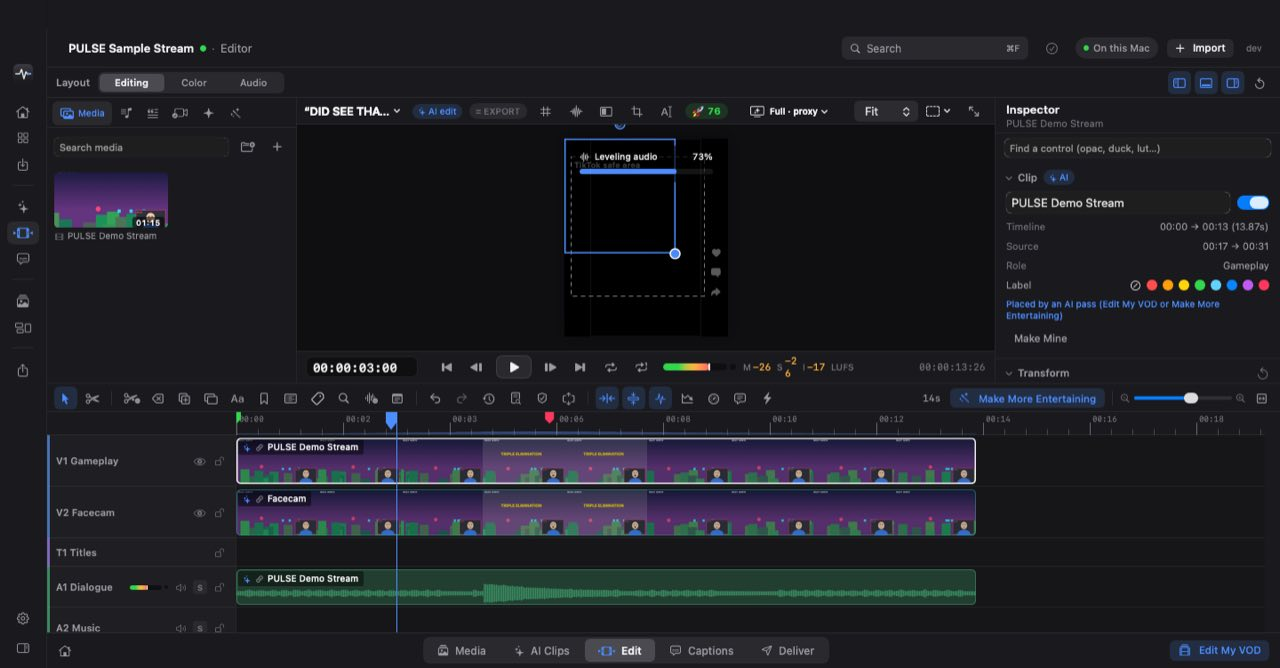
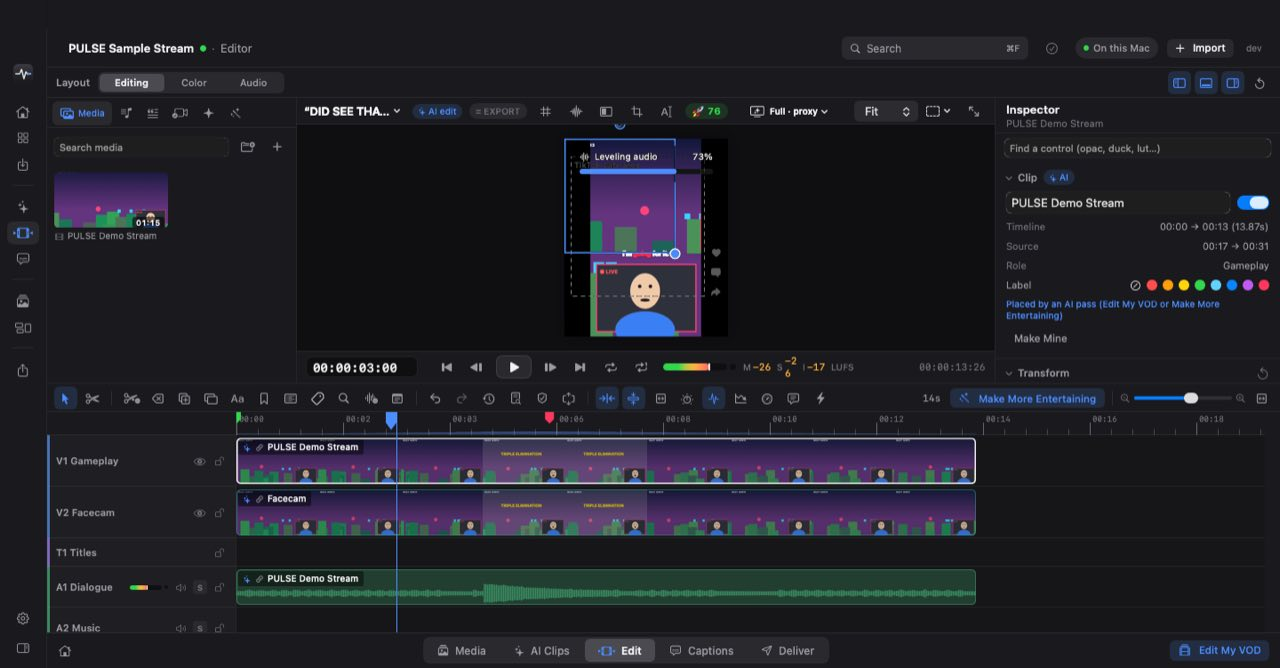
[release] PULSE 1.8.0: the first twenty of the 800 ideas
Version 1.8.0. The code is the commit CI passed on both runners
(574 tests on Apple silicon, the same suite on Intel, the full UI
walk-through, the viewer's reference frames unchanged); this commit
only bumps the version and brings the README, the notes, the version
table, the handoff and the screenshots up to date. The editor,
multicam and YouTube-edit screenshots now show the viewer's real
rendered frame.

Claude-Session: https://claude.ai/code/session_01ErBZKykhuaF9WweHhpYzPx

Changed region(s): [[0.4375, 0.2096, 0.5625, 0.509], [0.5, 0.5689, 0.625, 0.6287]]

diff --git a/CHANGELOG.md b/CHANGELOG.md
@@ -2,7 +2,7 @@
 
 Release notes live in [`versions/`](versions/README.md), one folder per version:
 
-- [1.8.0](versions/1.8.0/NOTES.md) (in progress, not released) — the first twenty of the 800 ideas, as they land: a built-in style as the default for each kind of recording (#626) and two styles compared side by side before one is built (#627); for shorts, an ending that loops back to the opening with a three-times preview (#541), five opening lines true to the clip (#542) and caption pages split at reading speed (#721); for long videos, the kept moments read and arranged as a story with what is missing named (#581) and a tease that points at a real later moment and is checked after every edit (#582); music in the recording flagged before export with one-click silencing (#521) and the face on camera read as a reaction signal (#501); a video's real retention graph imported onto its timeline (#936) and read for what the audience left during, per video and per channel (#937); a dialogue-first mix that lists what it changed (#761), one pass of an edit rebuilt on its own (#1101) and a cut trimmed a frame at a time while it loops (#661); three clips from the first ten minutes of a long recording while the rest is analyzed (#1061), a week of posts planned across platforms (#906) and a reviewer's timecoded comments back on the timeline as markers (#1181); a language model that reads the transcript and plans the edit for the existing editor to build (#1281), the viewer's real rendered frame judged in CI and shown in its screenshots (#1021), and a release pipeline that checks, notarizes and verifies a signed build once an Apple Developer account's secrets are added (#866)
+- [1.8.0](versions/1.8.0/NOTES.md) — the first twenty of the 800 ideas: a built-in style as the default for each kind of recording (#626) and two styles compared side by side before one is built (#627); for shorts, an ending that loops back to the opening with a three-times preview (#541), five opening lines true to the clip (#542) and caption pages split at reading speed (#721); for long videos, the kept moments read and arranged as a story with what is missing named (#581) and a tease that points at a real later moment and is checked after every edit (#582); music in the recording flagged before export with one-click silencing (#521) and the face on camera read as a reaction signal (#501); a video's real retention graph imported onto its timeline (#936) and read for what the audience left during, per video and per channel (#937); a dialogue-first mix that lists what it changed (#761), one pass of an edit rebuilt on its own (#1101) and a cut trimmed a frame at a time while it loops (#661); three clips from the first ten minutes of a long recording while the rest is analyzed (#1061), a week of posts planned across platforms (#906) and a reviewer's timecoded comments back on the timeline as markers (#1181); a language model that reads the transcript and plans the edit for the existing editor to build (#1281), the viewer's real rendered frame judged in CI and shown in its screenshots (#1021), and a release pipeline that checks, notarizes and verifies a signed build once an Apple Developer account's secrets are added (#866)
 - [1.7.0](versions/1.7.0/NOTES.md) — the BulkBoard look across the app (its surface, stroke and text tokens in dark and light, one blue accent with pink, violet, lime and amber as choices, 12-pt continuous cards, page headers on every page, a 216-pt sidebar with rounded selection and shortcut hints, system-style buttons, the app's own segmented control in place of 38 system pickers, a graphite app mark) and six built-in editing styles (Retention cut, Story first, Clean commentary, Punchy short, Smooth and cinematic, On the beat) that Edit Like a Reference, Edit My VOD and the overnight batch can cut in, each with its own zoom ramp (snapping in for the fast styles, easing in and out over 0.6 s for Smooth and cinematic), with a coach that flags held shots, missing sections, piled-up sound effects, unreadable caption pages and zooms that snap in a style that glides, and judges an edit by the style it was cut in; a fix for a freeze of all background work when Media opened with many audio files (waveforms are read off Swift's cooperative threads now); plus `docs/IDEAS-800.md`
 - [1.6.3](versions/1.6.3/NOTES.md) — hardening after the roadmap: multi-pass export driven per pass description, resumable YouTube uploads (status query after a dropped connection or a 5xx), one-shot dub synthesis with a timeout and zeroed silence, signal plugins with stderr drained, waveform video errors surfaced, split recordings joined per file, whisper.cpp and FFmpeg stopped on cancel, camera start/stop timeouts, archive restore as a job, VOD downloads over 60 MB streamed to disk with progress; a restrained professional design system across the app (flat controls, hairline borders, compact chrome, calmer timeline).
 - [1.6.2](versions/1.6.2/NOTES.md) — roadmap batches 23–24: chapter art, media list view, GPU self-test with automatic safe mode, shuttle speed readout; viewer quality with automatic step-down, viewer in a separate window, fade shapes, pitch preservation, grain, skin-tone protection, audio quality names, import presets, seamless music loops, memory ceiling; no black flash on rebuild, track rename/reorder/colour, keyframe sparklines, beat grid, sound packs, thumbnail after export, A/B thumbnail pairs; chroma key, feathered masks, scopes, match grade, brand logo per export, caption auto-fit; reverse clip, speaker chips, frosted captions, auto white balance, effect variations, one system indicator; ProRes 4444 with transparency, true peak, enhance A/B preview, audio scrub, track heights, project settings, detachable inspector and transcript; custom shortcuts, trim two-up, frame-rate conform, Open with PULSE, recently changed settings, font recents, focus rings; Speed Edit mode, transition handles, live recording level; storyboard reorder with waveforms, predicted retention, text templates with a live preview, sound drop markers, export-only sharpening; light theme, word-pop text, shape layers, brand kit per platform; keyframe lane, canvas rotation knob, looping storyboard previews, colour-matched angles, two-person reframing, help chips; crop tool on the canvas, mini viewer, caption editing on the viewer, playhead-first audio levelling, multicam switching sensitivity with cuts on the beat, edit like my last videos; mix and track meters with peak hold, voice/game balance, room tone between cuts, instrumental stems, shortcuts in every tooltip, camera face guide; Ask PULSE editor assistant, render-load bar on the ruler, animated caption gallery, game-plus-cam multicam; loudness readout, thumbnail frames ranked by reaction and text space, icon tab strip, macros, per-file import jobs, one sheet header; spotlight tour, sample projects per genre, media folders, next-video end screen, bars instead of spinners; OBS multi-track lanes, emoji pinned to the face, voice-over recording, parallel B-roll downloads, cached caption pages; before/after wipe, extras previews, storyboard before/after, big-face cutout thumbnails; multicam grid divider, sync by timecode with confidence, downloads resume after sleep; translated captions (both languages kept), live partial transcripts; raw solo, Edit Again keeping your changes, HEVC 10-bit, three-way enhance preview, spacing grid and type scale; per-game profiles for the clip scorer, a waveform picture for audio-only recordings in Edit My VOD; facecam positions per stretch, first-look clips before transcription, exports stamped with their project; action-following reframe for gameplay, noise profile learned from a marked silence; two-pass encoding, music tempo and license lines, music shelves filled while idle; recordings split under a size limit, voice panned toward the facecam, a second project in a browser window, localization scaffolding; live moments while recording, game-API event timestamps; dubbing into a second language, effect and signal plugins; phone review page, sound ratings and shareable packs; publishing to YouTube with scheduling, stills to motion.

diff --git a/README.md b/README.md
@@ -9,10 +9,22 @@ AI decision lands on a professional timeline as normal, editable clips, keyframe
 
 ## Download
 
-**[⬇ Download PULSE 1.7.0](https://github.com/XmanXay69/PulseAI-Clipper/releases/latest/download/PULSE.dmg)**
-(macOS 14 or later, Apple Silicon and Intel) · [all versions](versions/README.md) · [release notes](versions/1.7.0/NOTES.md)
+**[⬇ Download PULSE 1.8.0](https://github.com/XmanXay69/PulseAI-Clipper/releases/latest/download/PULSE.dmg)**
+(macOS 14 or later, Apple Silicon and Intel) · [all versions](versions/README.md) · [release notes](versions/1.8.0/NOTES.md)
 
 Already installed? PULSE shows an **Update** button when a new version is out — no need to download again.
+
+**New in 1.8.0:** the first twenty of [the 800 ideas](docs/IDEAS-800.md). For shorts: an ending that loops back
+to the opening, five opening lines true to the clip, caption pages split at reading speed. For long videos: an
+editing style chosen for each kind of recording, two styles compared side by side before one is built, the kept
+moments read as a story, a tease that points at a real later moment, and a language model (Claude, or one running
+on your Mac) that reads the whole transcript and plans the edit for you to approve. Around the edit: music in the
+recording flagged before export, the face on camera read as a reaction signal, a video's real retention graph on
+its timeline and what your audience leaves during, a dialogue-first mix, one pass of an edit rebuilt on its own, a
+cut trimmed frame by frame while it loops. Around the work: three clips from a long recording's first ten minutes
+while the rest is analyzed, a week of posts planned across platforms, and a reviewer's timecoded comments back on
+the timeline as markers. Much of this rests on rules of thumb that have only run on generated samples; the notes
+say exactly what has and has not been tried ([notes](versions/1.8.0/NOTES.md)).
 
 **New in 1.7.0:** PULSE takes on the look of [BulkBoard](https://github.com/XmanXay69/bulkboard) — graphite
 surfaces, one blue accent, soft 12-pt cards, a page header on every page, a rounded sidebar, quiet tags and the
@@ -20,7 +32,7 @@ app's own segmented control — with every feature where it was. And the auto-ed
 (Retention cut, Story first, Clean commentary, Punchy short, Smooth and cinematic, On the beat), written down
 from what working editors teach: pick one in Edit My VOD or Edit Like a Reference and PULSE cuts your VOD that way, and the
 coach now flags held shots, missing sections, piled-up sound effects and caption pages too long to read
-([notes](versions/1.7.0/NOTES.md)). Next: [800 more ideas](docs/IDEAS-800.md).
+([notes](versions/1.7.0/NOTES.md)).
 
 **New in 1.6.3:** a hardening pass over the last batches — two-pass export drives the encoder's passes the way
 AVFoundation expects, YouTube uploads resume after a dropped connection or a server error, dubbing can't hang on
@@ -104,8 +116,8 @@ in), speaker detection, the music and sound effects library, and export.
 ## Screenshots
 
 These come straight from CI (`PULSE --ui-snapshots` on a GitHub macOS runner, with a generated sample
-stream). The runner can't capture the live video layer, so viewers look black in the app shots; the frame
-the viewer actually shows is rendered separately below.
+stream). A window capture can't see the live video layer, so the walk-through renders the viewer's frame itself,
+checks it, and draws it into the capture where the player shows it ([how](docs/VIEWER-FRAMES.md)).
 
 | Home | Edit My VOD |
 |---|---|
@@ -116,6 +128,8 @@ the viewer actually shows is rendered separately below.
 | ![Editor](docs/screenshots/editor.jpg) | ![Captions](docs/screenshots/captions.jpg) |
 | **Editing styles** | **Exports** |
 | ![Editing styles](docs/screenshots/editing-styles.jpg) | ![Exports](docs/screenshots/exports.jpg) |
+| **Posting plan** | **Compare two styles** |
+| ![Posting plan](docs/screenshots/posting-plan.jpg) | ![Compare two styles](docs/screenshots/style-compare.jpg) |
 | **Light theme: Home** | **Light theme: Media** |
 | ![Home in the light theme](docs/screenshots/home-light.jpg) | ![Media in the light theme](docs/screenshots/media-light.jpg) |
 

diff --git a/versions/1.8.0/NOTES.md b/versions/1.8.0/NOTES.md
@@ -1,7 +1,8 @@
-## PULSE 1.8.0 (in progress)
+## PULSE 1.8.0
 
-The first twenty items of [the 800 ideas](../../docs/IDEAS-800.md), built in the order that list gives.
-This file grows as each one lands; the numbers are the list's.
+The first twenty items of [the 800 ideas](../../docs/IDEAS-800.md), the ones that list says to build first.
+The numbers are the list's. A lot here is new judgement written as rules of thumb, and most of it has only
+run on generated samples: the "Checked" section at the end says exactly what has and has not been tried.
 
 ### Editing styles everywhere
 - **A style for each kind of recording (#626).** Settings → AI Features → Editing style has one switch:
@@ -189,8 +190,12 @@ This file grows as each one lands; the numbers are the list's.
   un-notarized build would have published notes saying it opened with no warning.
 
 ### Checked
+- On the commit this release is built from, CI ran 574 tests on Apple silicon (macOS 26) and the same suite on
+  Intel (macOS 15) with no failures, walked through every page of the app, and found the viewer's four reference
+  frames unchanged.
 - Core tests for both (default style per kind, your own pick per kind, old settings read as off; the edit
-  retention curve; two trials and a verdict) pass on Linux. macOS results are filled in at release.
+  retention curve; two trials and a verdict) pass on Linux and on both Mac runners, as do all the core tests
+  listed below.
 - Core tests for the loop (a hanging ending beats a trail-off; questions and returns to the opening; never
   through a word, before the payoff or too early; the coach's offer), the opening lines (five kinds, all
   different, short enough, true to the clip; one line on the short at a time) and reading-speed pages

diff --git a/docs/HANDOFF.md b/docs/HANDOFF.md
@@ -17,7 +17,7 @@ Intel and `macos-15` jobs are the ones that usually finish, and one green job is
 
 ## Versions
 
-`VERSION` holds the current version (1.7.0). Release notes per version live in `versions/<version>/NOTES.md`
+`VERSION` holds the current version (1.8.0). Release notes per version live in `versions/<version>/NOTES.md`
 (the Release workflow prepends them to the GitHub Release); `versions/README.md` explains how to cut a new one.
 
 ## Download (the easy way)
@@ -66,8 +66,7 @@ Key files to know:
 - `Sources/PulseEngine/Composition/CompositionBuilder.swift` + `Rendering/FrameRenderer.swift` — how a timeline becomes pixels (same path for playback and export).
 - `Sources/PulseCore/AutoEdit/ShortBuilder.swift` — candidate → finished 9:16 short.
 - `Tests/PulseEngineTests/EngineSmokeTests.swift` — end-to-end: demo media → analysis → clips → short → rendered stills → exported MP4.
-- 1.8.0 (in progress, not released: the "top twenty" of `docs/IDEAS-800.md`, all built; `VERSION` and the README
-  still say 1.7.0 until a `[release]` commit). Where each lives, all with tests in `Tests/PulseCoreTests`:
+- 1.8.0 (the "top twenty" of `docs/IDEAS-800.md`). Where each lives, all with tests in `Tests/PulseCoreTests`:
   default style per kind of recording and the two-style compare (`AISettings.defaultPlaybook`,
   `AutoEdit/StyleComparison.swift`, `Views/StyleCompareSheet.swift`); the loop, the five opening lines and
   reading-speed caption pages (`AutoEdit/LoopBuilder.swift`, `Clips/HookWriter.swift`, `Captions/CaptionLayout.swift`);

diff --git a/versions/README.md b/versions/README.md
@@ -5,7 +5,8 @@ GitHub Release description — and the installer is attached to that release on 
 
 | Version | Notes | Download |
 |---|---|---|
-| **1.7.0** | [versions/1.7.0](1.7.0/NOTES.md) | [PULSE-1.7.0.dmg](https://github.com/XmanXay69/PulseAI-Clipper/releases/download/v1.7.0/PULSE-1.7.0.dmg) |
+| **1.8.0** | [versions/1.8.0](1.8.0/NOTES.md) | [PULSE-1.8.0.dmg](https://github.com/XmanXay69/PulseAI-Clipper/releases/download/v1.8.0/PULSE-1.8.0.dmg) |
+| 1.7.0 | [versions/1.7.0](1.7.0/NOTES.md) | [PULSE-1.7.0.dmg](https://github.com/XmanXay69/PulseAI-Clipper/releases/download/v1.7.0/PULSE-1.7.0.dmg) |
 | 1.6.3 | [versions/1.6.3](1.6.3/NOTES.md) | [PULSE-1.6.3.dmg](https://github.com/XmanXay69/PulseAI-Clipper/releases/download/v1.6.3/PULSE-1.6.3.dmg) |
 | 1.6.2 | [versions/1.6.2](1.6.2/NOTES.md) | [PULSE-1.6.2.dmg](https://github.com/XmanXay69/PulseAI-Clipper/releases/download/v1.6.2/PULSE-1.6.2.dmg) |
 | 1.6.1 | [versions/1.6.1](1.6.1/NOTES.md) | [PULSE-1.6.1.dmg](https://github.com/XmanXay69/PulseAI-Clipper/releases/download/v1.6.1/PULSE-1.6.1.dmg) |

diff --git a/docs/IDEAS-800.md b/docs/IDEAS-800.md
@@ -8,7 +8,7 @@ for the least work.
 
 ## Where to start
 
-If only twenty get built, these are the ones. Built so far (see the [1.8.0 notes](../versions/1.8.0/NOTES.md)): 626, 627, 541, 542, 721, 581, 582, 521, 501, 936, 937, 761, 1101, 661, 1061, 906, 1181, 1281, 1021 and 866 (866 as far as it can go without an Apple Developer account: see [SIGNING.md](SIGNING.md)). That is all twenty.
+If only twenty get built, these are the ones. All twenty shipped in 1.8.0 (see the [1.8.0 notes](../versions/1.8.0/NOTES.md)): 626, 627, 541, 542, 721, 581, 582, 521, 501, 936, 937, 761, 1101, 661, 1061, 906, 1181, 1281, 1021 and 866 (866 as far as it can go without an Apple Developer account: see [SIGNING.md](SIGNING.md)). That is all twenty.
 
 | # | What | Why first |
 |---|---|---|
